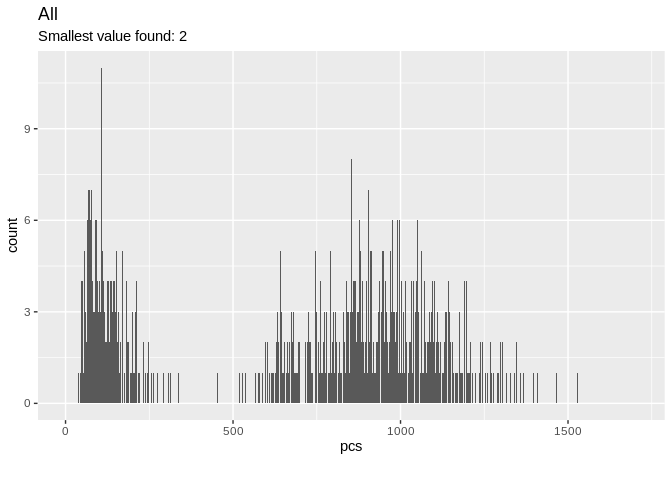
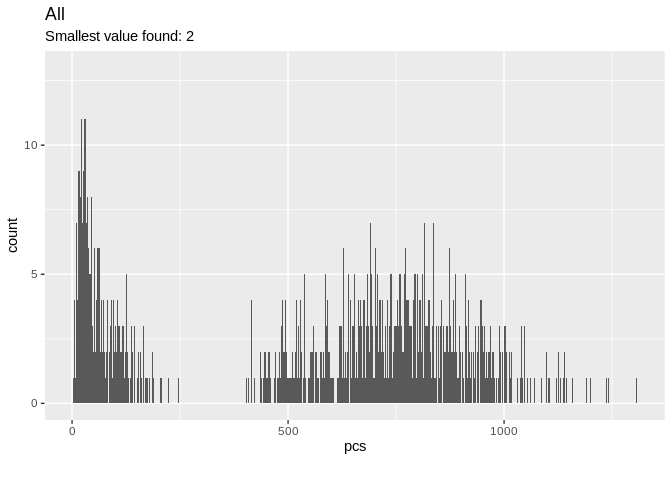
md

diff --git a/src/delivery_lab.md b/src/delivery_lab.md
@@ -11,6 +11,7 @@ library(plyr)
 library(lubridate)
 library(numbers)
 library(data.table)
+library(R.utils)
 source("src/evalhelp.R")
 ```
 
@@ -50,9 +51,9 @@ P <- d[d$V1 == "P", ]
 R <- d[d$V1 == "R", ]
 
 # For distributions, we'll keep Distribution date, Quantity, ABO type, Volume, Exp date
-keep <- c("V12", "V18", "V20", "V22", "V24")
+keep <- c("V12", "V14", "V18", "V20", "V22", "V24")
 distr <- P[keep]
-colnames(distr) <- c("date", "quantity", "ABO", "volume", "exp")
+colnames(distr) <- c("date", "product", "quantity", "ABO", "volume", "exp")
 
 # For returns we keep the return date
 keep <- c("V4", "V7")
@@ -69,7 +70,21 @@ retrn$quantity <- as.numeric(retrn$quantity)
 ```
 
 ``` r
+# budKpl    # Blood product sale amendment code
+
+# Product codes for red cell products
+codes <- c("budTR001", "A0071V00", "A0074V00", "A0092VA0", "A0092VB0", 
+           "E3844V00", "E3845V00", "E3846VA0", "E3846VB0", "E3846VC0",
+           "E3846V00", "E3847VA0", "E3847VB0", "E3847VC0", "E3847V00", 
+           "E3936VA0", "E3936VB0", "E3939V00", "E3940V00", "E4683V00",
+           "E7668V00", "E7673V00", "E4999V00", "E5000V00")
+
+distr <- distr[distr$product %in% codes, ]
+```
+
+``` r
 all.distr <- aggregate(distr$quantity, by = list(distr$date), sum); colnames(all.distr) <- c("date", "pcs")
+all.retrn <- aggregate(retrn$quantity, by = list(retrn$date), sum); colnames(all.retrn) <- c("date", "pcs")
 
 # O minus
 Ominus <- distr[distr$ABO == "O -", ]
@@ -113,7 +128,9 @@ we have the problem where the smaller ABO series don’t add up to
 
 ``` r
 alldates <- seq(from = as.Date("2014-01-01"), to = as.Date("2019-07-07"), by = "day")
-typedates <- list(all.distr$date, Ominus.distr$date, Oplus.distr$date, Aminus.distr$date, Aplus.distr$date, Bminus.distr$date, Bplus.distr$date, ABminus.distr$date, ABplus.distr$date)
+typedates <- list(all.distr$date, Ominus.distr$date, Oplus.distr$date, 
+                  Aminus.distr$date, Aplus.distr$date, Bminus.distr$date, 
+                  Bplus.distr$date, ABminus.distr$date, ABplus.distr$date)
 types <- list("All", "O-", "O+", "A-", "A+", "B-", "B+", "AB-", "AB+")
 for(i in seq(9)){
   cat("Missing observations in ", types[[i]], ": ", length(alldates[!alldates %in% typedates[[i]]]), "\n")
@@ -121,14 +138,14 @@ for(i in seq(9)){
 ```
 
     ## Missing observations in  All :  0 
-    ## Missing observations in  O- :  7 
-    ## Missing observations in  O+ :  0 
-    ## Missing observations in  A- :  32 
-    ## Missing observations in  A+ :  0 
-    ## Missing observations in  B- :  129 
-    ## Missing observations in  B+ :  33 
-    ## Missing observations in  AB- :  353 
-    ## Missing observations in  AB+ :  140
+    ## Missing observations in  O- :  77 
+    ## Missing observations in  O+ :  33 
+    ## Missing observations in  A- :  210 
+    ## Missing observations in  A+ :  37 
+    ## Missing observations in  B- :  342 
+    ## Missing observations in  B+ :  161 
+    ## Missing observations in  AB- :  538 
+    ## Missing observations in  AB+ :  350
 
 Some blood types seem to have quite a lot of missing days. Let’s look at
 the series more closely to get an estimate of the ratio between zeros
@@ -147,7 +164,7 @@ ggplot(data = all.distr, aes(x = pcs)) + geom_histogram(binwidth = 1) +
 ``` r
 ggplot(data = Ominus.distr, aes(x = pcs)) + geom_histogram(binwidth = 1) + 
   labs(title = "O-",
-       subtitle = "All 7 missing values could be zeroes",
+       subtitle = "Missing days: 77",
        caption = "", 
        x = "pcs", y = "count")
 ```
@@ -157,7 +174,7 @@ ggplot(data = Ominus.distr, aes(x = pcs)) + geom_histogram(binwidth = 1) +
 ``` r
 ggplot(data = Oplus.distr, aes(x = pcs)) + geom_histogram(binwidth = 1) + 
   labs(title = "O+",
-       subtitle = "Smallest value found: 4",
+       subtitle = "Missing days: 33",
        caption = "", 
        x = "pcs", y = "count")
 ```
@@ -167,7 +184,7 @@ ggplot(data = Oplus.distr, aes(x = pcs)) + geom_histogram(binwidth = 1) +
 ``` r
 ggplot(data = Aminus.distr, aes(x = pcs)) + geom_histogram(binwidth = 1) + 
   labs(title = "A-",
-       subtitle = "All 32 missing values could be zeroes",
+       subtitle = "Missing days: 210",
        caption = "", 
        x = "pcs", y = "count")
 ```
@@ -177,7 +194,7 @@ ggplot(data = Aminus.distr, aes(x = pcs)) + geom_histogram(binwidth = 1) +
 ``` r
 ggplot(data = Aplus.distr, aes(x = pcs)) + geom_histogram(binwidth = 1) + 
   labs(title = "A+",
-       subtitle = "Smallest value found: 1",
+       subtitle = "Missing days: 37",
        caption = "", 
        x = "pcs", y = "count")
 ```
@@ -187,7 +204,7 @@ ggplot(data = Aplus.distr, aes(x = pcs)) + geom_histogram(binwidth = 1) +
 ``` r
 ggplot(data = Bminus.distr, aes(x = pcs)) + geom_histogram(binwidth = 1) + 
   labs(title = "B-",
-       subtitle = "129 zeroes would be a lot, possibly missing data?",
+       subtitle = "Missing days: 342",
        caption = "", 
        x = "pcs", y = "count")
 ```
@@ -197,7 +214,7 @@ ggplot(data = Bminus.distr, aes(x = pcs)) + geom_histogram(binwidth = 1) +
 ``` r
 ggplot(data = Bplus.distr, aes(x = pcs)) + geom_histogram(binwidth = 1) + 
   labs(title = "B+",
-       subtitle = "All 33 missing values could be zeroes",
+       subtitle = "Missing days: 161",
        caption = "", 
        x = "pcs", y = "count")
 ```
@@ -207,7 +224,7 @@ ggplot(data = Bplus.distr, aes(x = pcs)) + geom_histogram(binwidth = 1) +
 ``` r
 ggplot(data = ABminus.distr, aes(x = pcs)) + geom_histogram(binwidth = 1) + 
   labs(title = "AB-",
-       subtitle = "353 zeroes would be a lot, possibly missing data?",
+       subtitle = "Missing days: 538",
        caption = "", 
        x = "pcs", y = "count")
 ```
@@ -217,7 +234,7 @@ ggplot(data = ABminus.distr, aes(x = pcs)) + geom_histogram(binwidth = 1) +
 ``` r
 ggplot(data = ABplus.distr, aes(x = pcs)) + geom_histogram(binwidth = 1) + 
   labs(title = "AB+",
-       subtitle = "140 zeroes would be a lot, possibly missing data?",
+       subtitle = "Missing days: 350",
        caption = "", 
        x = "pcs", y = "count")
 ```
@@ -244,39 +261,55 @@ ggplot() +
   scale_color_manual(values = c("#DF013A", "#298A08")) +
   theme(legend.position = "bottom", legend.margin = margin(t = -20, b = 20)) +
   labs(title = "Distribution vs. Sales",
-       subtitle = "Distribution does not correspond with sales. Why?",
-       caption = "Note: Possibly some missing data points in the distribution series", 
+       subtitle = "Distribution largely agrees with sales?",
+       caption = "Note: Only red cell products here", 
        x = "", y = "blood bags") 
 ```
 
 ![](delivery_lab_files/figure-gfm/plot-1.png)<!-- -->
 
-The distributions data is not comparable with the sales data. The
-overall shape of the series is very similar, but the level is wholly
-different. The similarity might not be enough though, let’s do a level
-correction and see how well our series match then.
+## Considering removals
+
+Removals shouldn’t make much of a difference, since removals contribute
+to under a percentage of the entirety of the data. To be thorough
+though, we should subtract removals from distributions and see if they
+then correspond better with the sales
+figures.
 
 ``` r
-# Plot with level correction (-4000 to distributions)
-ggplot() + 
-  geom_line(data = data, aes(x = date, y = distr -4000, colour = "distribution"), size = 1) + 
-  geom_point(data = data, aes(x = date, y = distr -4000, colour = "distribution")) +
-  geom_line(data = data, aes(x = date, y = sales, colour = "sales"), size = 1) + 
-  geom_point(data = data, aes(x = date, y = sales, colour = "sales")) +
-  scale_color_manual(values = c("#DF013A", "#298A08")) +
-  theme(legend.position = "bottom", legend.margin = margin(t = -20, b = 20)) +
-  labs(title = "Distribution vs. Sales",
-       subtitle = "Distribution does not correspond with sales. Why?",
-       caption = "Note: Level correction of -4000 pcs applied to distributions data", 
-       x = "", y = "blood bags") 
+retrn.monthly <- aggregate(pcs ~ month(date) + year(date), data = all.retrn, FUN = sum)
+distr.new <- distr.monthly[distr.monthly$`year(date)` >= 2014 & distr.monthly$`year(date)` <= 2018, ]$pcs
+retrn.new <- retrn.monthly[retrn.monthly$`year(date)` >= 2014 & retrn.monthly$`year(date)` <= 2018, ]$pcs
+tot <- distr.new - retrn.new
+data.new <- data.frame(date = seq(from = as.Date("2014-01-01"), to = as.Date("2018-12-01"), by = "month"),
+                       distr = distr.new,
+                       retrn = retrn.new,
+                       tot = tot,
+                       sales = sales[sales$date >= "2014-01-01" & sales$date <= "2018-12-01", ]$Punasoluvalmisteet)
 ```
 
-![](delivery_lab_files/figure-gfm/level_correction-1.png)<!-- -->
+Plots
+
+``` r
+ggplot() + 
+  geom_line(data = data.new, aes(x = date, y = tot, colour = "distribution"), size = 1) + 
+  geom_point(data = data.new, aes(x = date, y = tot, colour = "distribution")) +
+  geom_line(data = data.new, aes(x = date, y = sales, colour = "sales"), size = 1) + 
+  geom_point(data = data.new, aes(x = date, y = sales, colour = "sales")) +
+  scale_color_manual(values = c("#DF013A", "#298A08")) +
+  theme(legend.position = "bottom", legend.margin = margin(t = -20, b = 20)) +
+  labs(title = "Distribution minus Returns vs. Sales",
+       subtitle = "Distribution still largely corresponds to sales",
+       caption = "Note: Might be that some returns have been invoiced regardless", 
+       x = "", y = "blood bags")
+```
+
+![](delivery_lab_files/figure-gfm/removal_adj_plots-1.png)<!-- -->
 
 ## Forecasting deliveries
 
 ``` r
-distr.mts <- msts(all.distr$pcs, start = 2013, seasonal.periods = c(7, 365.25))
+distr.mts <- msts(all.distr$pcs, start = decimal_date(as.Date("2013-12-05")), seasonal.periods = c(7, 365.25))
 distr.mts <- window(distr.mts, start = 2014)
 fit <- tbats(distr.mts)
 ```
@@ -286,7 +319,7 @@ fc <- predict(fit, h = 21)
 autoplot(fc, main = "3 week prediction with TBATS", include = 21)
 ```
 
-![](delivery_lab_files/figure-gfm/unnamed-chunk-3-1.png)<!-- -->
+![](delivery_lab_files/figure-gfm/unnamed-chunk-4-1.png)<!-- -->
 
 The model clearly seems to have an idea about the weekly pattern. Let’s
 run a rolling partition test (a kind of CV) and average out the MAPEs to
@@ -369,10 +402,10 @@ cat("
     ##     ===========================
     ##     
     ##     MAPE
-    ##     AVG:  59.92 
-    ##     SD:  77.19 
-    ##     MAX:  246.36 
-    ##     MIN:  6.96
+    ##     AVG:  115.21 
+    ##     SD:  114.18 
+    ##     MAX:  349.2 
+    ##     MIN:  22.28
 
 Let’s try linear regression with refitted residuals (to deal with
 multiseasonality).
@@ -400,7 +433,7 @@ fcast <- data.frame(date = seq(from = as.Date("2019-01-01"), to = as.Date("2019-
 ggplot() + geom_line(data = fcast, aes(x = date, y = preds))
 ```
 
-![](delivery_lab_files/figure-gfm/unnamed-chunk-7-1.png)<!-- -->
+![](delivery_lab_files/figure-gfm/unnamed-chunk-8-1.png)<!-- -->
 
 The produced forecast seems be similar with the TBATS forecast. Let’s
 run a similar partitioning check.
@@ -489,33 +522,48 @@ cat("
     ##     ===========================
     ##     
     ##     MAPE
-    ##     AVG:  64.56 
-    ##     SD:  78.52 
-    ##     MAX:  263.22 
-    ##     MIN:  10.46
+    ##     AVG:  96.67 
+    ##     SD:  124.36 
+    ##     MAX:  356.35 
+    ##     MIN:  11.32
 
-TBATS performs slightly better.
+Double linear performs slightly better.
 
 Let’s see how well this is suited for monthly forecasting.
 
 ``` r
-# Do daily forecasts
-distr.mts <- msts(all.distr$pcs, start = 2013, seasonal.periods = c(7, 365.25)) # Redo series
+# Do daily LM forecasts
 es <- c()
-for(i in seq(from = 730, to = length(distr.mts), by = 1)){
+# create progress bar
+pb <- txtProgressBar(min = 730, max = (length(distr.ts) - 1), style= 3)
+for(i in seq(from = 730, to = (length(distr.ts) - 1), by = 1)){
   train <- window(distr.mts,
-                  start = c(decimal_date(as.Date("2013-01-01"))),
-                  end = c(decimal_date(as.Date("2013-01-01")), i))
-  test <- distr.mts[i + 1]
-  fit <- tbats(train)
-  fcast <- predict(fit, h = 1)
-  e <- test - fcast$'Point Forecast'
+                  start = c(decimal_date(as.Date("2014-01-01"))),
+                  end = c(decimal_date(as.Date("2014-01-01")), i))
+  test <- distr.ts[i + 1]
+  
+  trainlm <- tslm(train ~ trend + season)
+  trainlmf <- forecast(trainlm, h = 1)
+ 
+  residauto <- auto.arima(trainlm$residuals)
+  residf <- forecast(residauto, h = 1)
+  
+  y <- as.numeric(trainlmf$mean)
+  x <- as.numeric(residf$mean)
+  
+  fcast <- x + y
+  
+  e <- test - fcast
   es <- c(es, e)
+  setTxtProgressBar(pb, i) # update progress bar
 }
+close(pb) # close progress bar
+
+fwrite(list(es), file = "results/lm_test_errors.txt")
 ```
 
 ``` r
-# Sum up errors by month
+# Sum up LM errors by month
 mons <- rep(c(31, 28, 31, 30, 31, 30, 31, 31, 30, 31, 30, 31), 4)
 
 moving_index <- 1
@@ -524,5 +572,50 @@ for(i in mons){
   mon.e <- sum(es[moving_index:(moving_index -1 + i)])
   moving_index <- moving_index + i
   mon.es <- c(mon.es, mon.e)
-  }
+}
+fwrite(list(mon.es), file = "results/lm_test_monthly_errors.txt")
 ```
+
+Next, TBATS for comparision
+
+``` r
+# Do daily TBATS forecasts
+tbats_es <- c()
+# create progress bar
+pb <- txtProgressBar(min = 730, max = (length(distr.mts) - 1), style= 3)
+for(i in seq(from = 730, to = (length(distr.mts) - 1), by = 1)){
+  train <- window(distr.mts,
+                  start = c(decimal_date(as.Date("2014-01-01"))),
+                  end = c(decimal_date(as.Date("2014-01-01")), i))
+  test <- distr.mts[i + 1]
+  fit <- tbats(train)
+  fcast <- predict(fit, h = 1)
+  
+  e <- test - fcast$mean
+  tbats_es <- c(tbats_es, e)
+  setTxtProgressBar(pb, i) # update progress bar
+}
+close(pb) # close progress bar
+
+fwrite(list(tbats_es), file = "results/tbats_test_errors.txt")
+```
+
+``` r
+# Sum up TBATS errors by month
+mons <- rep(c(31, 28, 31, 30, 31, 30, 31, 31, 30, 31, 30, 31), 4)
+
+moving_index <- 1
+tbats_mon.es <- c()
+
+for(i in mons){
+  mon.e <- sum(es[moving_index:(moving_index -1 + i)])
+  moving_index <- moving_index + i
+  tbats_mon.es <- c(tbats_mon.es, mon.e)
+}
+fwrite(list(tbats_mon.es), file = "results/tbats_test_monthly_errors.txt")
+```
+
+## TODO
+
+Smoothed series Rolling windows All types All products (platelets and
+plasma also)
